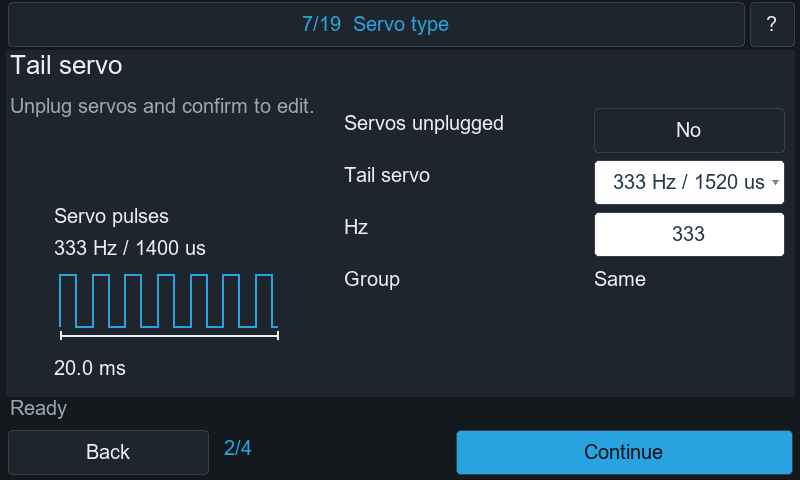
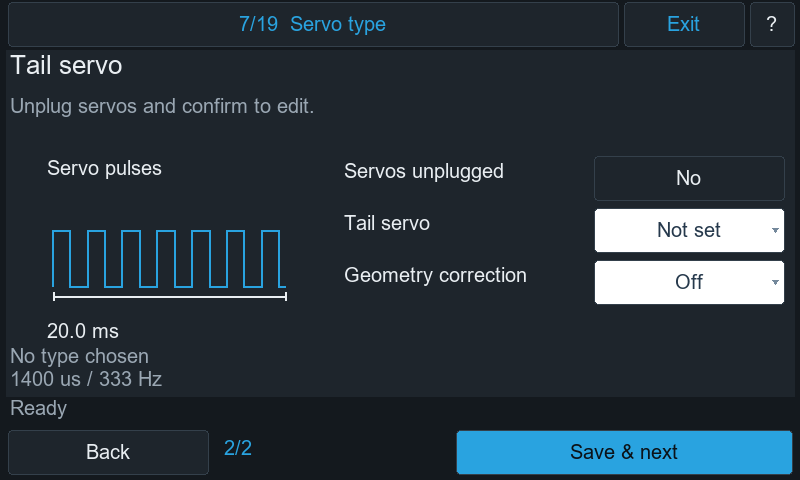
docs(setup): regenerate the wizard flow and the servo type previews

diff --git a/docs/reference/helicopter-wizard-flow.md b/docs/reference/helicopter-wizard-flow.md
@@ -98,15 +98,11 @@ flowchart LR
     end
     subgraph S7["7. Servo type"]
       direction TB
-      S7c0["<b>Swash servos</b><br/>sets: Swash servos, Hz<br/>confirms: Servos unplugged<br/>writes: servo_configurations"]:::k3
-      S7c1["<b>Tail servo</b><br/>sets: Tail servo, Hz<br/>confirms: Servos unplugged<br/>writes: servo_configurations, servo_configura..."]:::k3
+      S7c0["<b>Swash servos</b><br/>sets: Geometry correction<br/>confirms: Servos unplugged<br/>writes: servo_configurations"]:::k3
+      S7c1["<b>Tail servo</b><br/>sets: Geometry correction<br/>confirms: Servos unplugged<br/>writes: servo_configurations, servo_configura..."]:::k3
       S7c0 --> S7c1
-      S7c2["<b>Geometry correction</b><br/>sets: Geometry correction<br/>writes: servo_configurations, servo_configura..."]:::k3
+      S7c2["<b>Servo type</b><br/>sets: Swash servos, Tail servo<br/>reads: Servo"]:::k0
       S7c1 --> S7c2
-      S7c3["<b>Tail geometry correction</b><br/>sets: Geometry correction<br/>writes: servo_configurations, servo_configura..."]:::k3
-      S7c2 --> S7c3
-      S7c4["<b>Servo type</b><br/>reads: Servo"]:::k1
-      S7c3 --> S7c4
     end
     S6 --> S7
     subgraph S8["8. Governor"]
@@ -336,7 +332,7 @@ MSP writes include deferred dirty records and immediate commands. The inventory 
 | 4. Profiles & gain | Profiles & gain<br/>Master gain<br/>Trim-button guide<br/>Channel use | Profile switch<br/>Method | — | status<br/>rc<br/>servo | adjustment_ranges<br/>set_adjustment_range | same |
 | 5. Rates | Switch position {n} · rate profile {n} / Rate profile {n}<br/>Rates set | — | — | rc_tuning<br/>status<br/>servo | set_pid_profile<br/>rc_tuning | same |
 | 6. Swashplate | Swash type<br/>Rotor direction<br/>Tail type<br/>Swashplate set | Swash type<br/>Servo 1<br/>Rotor direction<br/>Tail type | — | governor_profile<br/>status<br/>servo | tail_motor_output.action<br/>mixer_input<br/>mixer_config.swash_type<br/>mixer_input.rate<br/>set_pid_profile<br/>governor_profile<br/>governor_profile.governor_tta_gain<br/>mixer_config.main_rotor_dir<br/>mixer_config.tail_rotor_mode | same |
-| 7. Servo type | Swash servos<br/>Tail servo<br/>Geometry correction<br/>Tail geometry correction<br/>Servo type | Swash servos<br/>Hz<br/>Tail servo<br/>Geometry correction | Servos unplugged | status<br/>servo | servo_configurations<br/>servo_configurations.mid<br/>servo_configurations.min<br/>servo_configurations.max<br/>servo_configurations.rneg<br/>servo_configurations.rpos<br/>servo_configurations.rate<br/>servo_configurations.flags | same |
+| 7. Servo type | Swash servos<br/>Tail servo<br/>Servo type | Geometry correction<br/>Swash servos<br/>Tail servo | Servos unplugged | status<br/>servo | servo_configurations<br/>servo_configurations.mid<br/>servo_configurations.min<br/>servo_configurations.max<br/>servo_configurations.rneg<br/>servo_configurations.rpos<br/>servo_configurations.rate<br/>servo_configurations.flags | same |
 | 8. Governor | Governor Mode<br/>RPM source<br/>RPM filter<br/>Throttle Type<br/>PID profile {n}<br/>Ramp Time | Mode<br/>RPM source<br/>Throttle Type<br/>Full headspeed (rpm)<br/>Spoolup time<br/>Spooldown time<br/>Recovery time | — | filter_config<br/>rpm_filter_v2<br/>governor_profile<br/>status<br/>governor_profile.governor_headspeed<br/>filter_config.rpm_preset<br/>rpm_filter_v2.notch_source_1..16 (axes 0..2, CUSTOM only)<br/>servo<br/>governor_config.gov_spoolup_time<br/>governor_config.gov_spooldown_time<br/>governor_config.gov_recovery_time | governor_config.gov_mode<br/>feature_config.enabledFeatures<br/>governor_config.gov_throttle_type<br/>set_pid_profile<br/>governor_profile<br/>governor_profile.governor_headspeed<br/>motor_config.use_dshot_telemetry<br/>governor_config.gov_spoolup_time<br/>governor_config.gov_spooldown_time<br/>governor_config.gov_recovery_time | beyond the Configurator |
 | 9. Motor & ESC | Throttle Protocol<br/>Motor and gearing<br/>Motor and gearing (cont.) | Bidirectional DShot<br/>Protocol<br/>Main motor poles<br/>Motor pinion teeth<br/>Main gear teeth<br/>Tail motor poles<br/>Tail input gear teeth<br/>Tail output gear teeth | All blades removed | status<br/>servo | motor_config.use_dshot_telemetry<br/>motor_config.motor_pwm_protocol<br/>esc_sensor_config<br/>feature_config.enabledFeatures<br/>motor_config.motor_pole_count_0<br/>motor_config.main_rotor_gear_ratio_0<br/>motor_config.main_rotor_gear_ratio_1<br/>motor_config.motor_pole_count_1<br/>motor_config.tail_rotor_gear_ratio_0<br/>motor_config.tail_rotor_gear_ratio_1 | same |
 | 10. Connect the servos | Connect the servos<br/>Plug the servos in<br/>Battery | — | Servos unplugged<br/>Servos connected and powered<br/>All blades removed | status<br/>servo<br/>motor | — | same |
@@ -350,4 +346,4 @@ MSP writes include deferred dirty records and immediate commands. The inventory 
 | 18. Gyro check | Roll<br/>Pitch<br/>Yaw | — | Corrects against movement | status<br/>servo | — | same |
 | 19. Finish | Finish | — | Final checks understood | status<br/>servo | — | same |
 
-Diagram: 99 nodes; 19 numbered steps plus the model card.
+Diagram: 97 nodes; 19 numbered steps plus the model card.

diff --git a/docs/pages/helicopter_setup.md b/docs/pages/helicopter_setup.md
@@ -573,8 +573,9 @@ desktop fonts. They are not native EdgeTX screenshots or radio acceptance eviden
 
 [Stick check](../images/helicopter_setup/02-small-task-3.png) ·
 [Throttle-switch endpoints](../images/helicopter_setup/02-small-task-4.png) ·
-[Cyclic servo Hz](../images/helicopter_setup/07-small.png) ·
-[Tail servo Hz](../images/helicopter_setup/07-small-task-2.png)
+[Swash servo type](../images/helicopter_setup/07-small.png) ·
+[Tail servo type](../images/helicopter_setup/07-small-task-2.png) ·
+[Servos with no type](../images/helicopter_setup/07-small-task-type-none.png)
 
 [480×272 illustrated tasks](../images/helicopter_setup/illustrations-small.png) ·
 [800×480 illustrated tasks](../images/helicopter_setup/illustrations-large.png)
